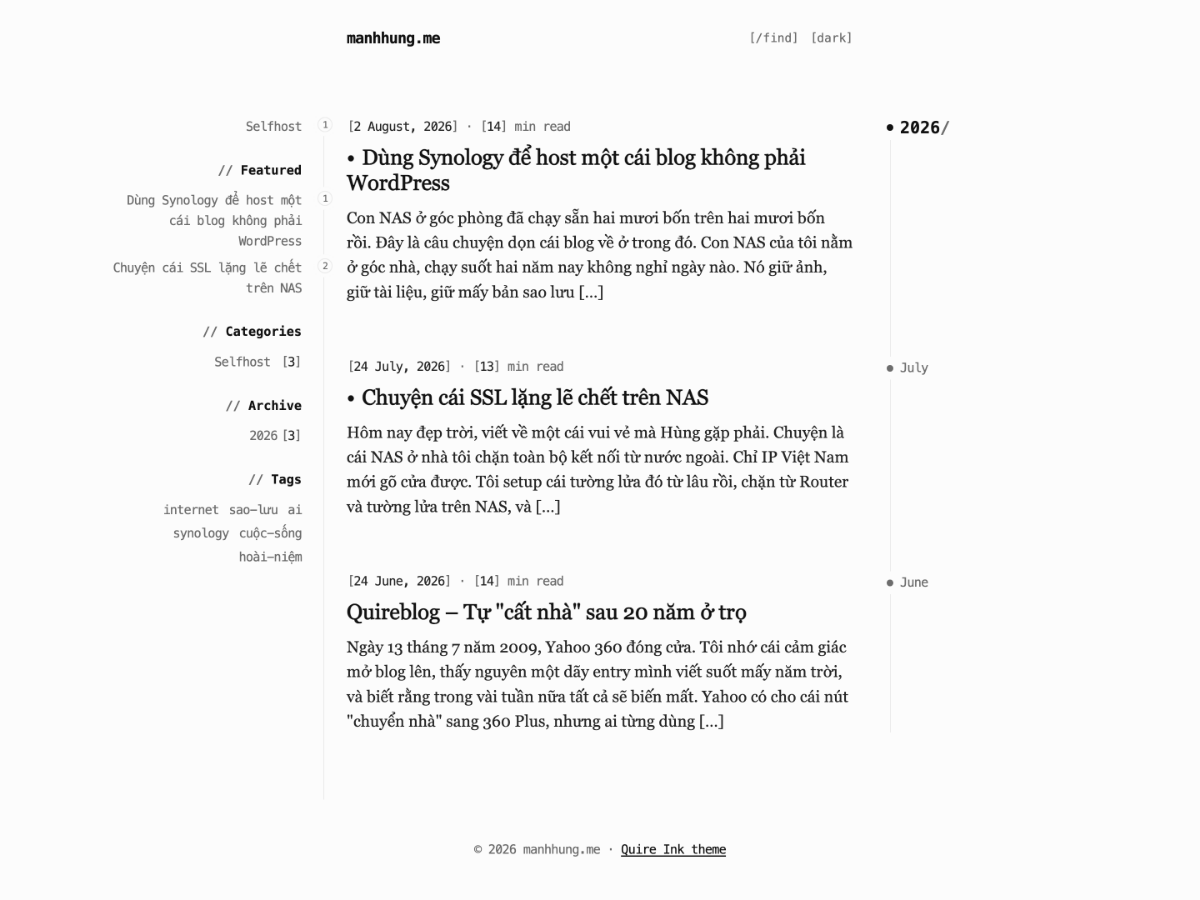
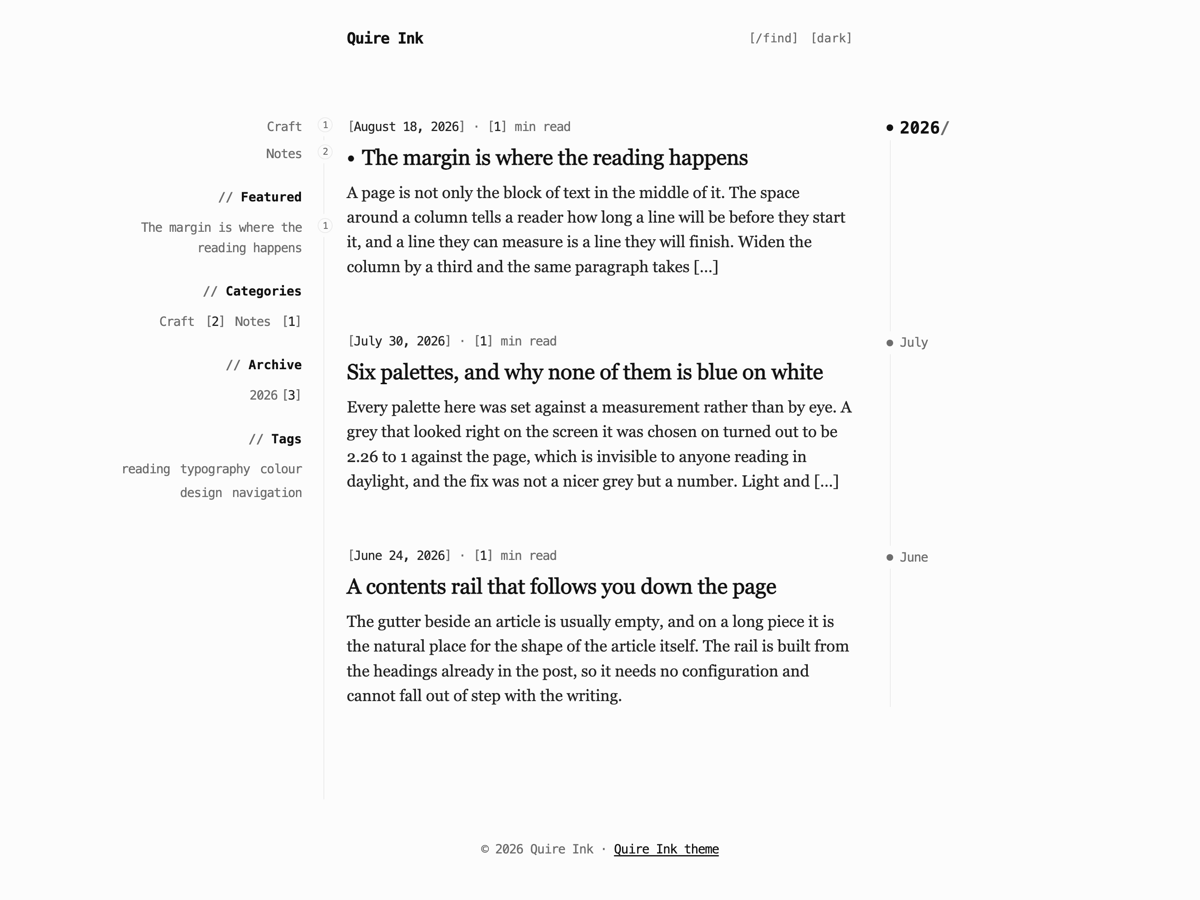
readme.txt rewritten, and the screenshot is no longer somebody's diary
The readme opened on the name of a blog engine nobody browsing a theme directory has
heard of. It opens on what a reader gets now - a column of about seventy characters
in a book face, six palettes light and dark, the article's own contents in the gutter
- and says where the look comes from afterwards, which is the order the engine's own
README uses and the right order for a stranger.

Four things it had never mentioned at all: the eight block patterns and four image
styles, the editor showing the article rather than a guess at it, what a page costs
to load (about 152 KB first visit, about 18 KB after, 4 of 21 font files fetched),
and that this is a classic theme with no Site Editor. Two it should have said plainly:
the accessibility numbers INCLUDING the one criterion that fails and why the tag is
not claimed, and that nothing is locked in - no post type, no taxonomy, no table, no
shortcode, so switching away leaves every post a post. Claims checked against the
code rather than remembered: the menu location is "Rail menu", the panels are the six
"Quire Ink -" ones, the column is --shell-w, and grep confirms no external request
and no custom schema.

The screenshot was a render of the owner's own blog: their site name, their posts,
their words. Honest, and it passed review, but a theme strangers browse should not
open on one person's diary. dev/screenshot.sh builds it from a WordPress seeded for
[…]

diff --git a/docs/release-checklist.md b/docs/release-checklist.md
@@ -61,9 +61,17 @@ the engine draws its own comment fields the same way, so this belongs upstream r
 
 ## Worth doing, not required
 
-* **The screenshot** is a render of a real blog, with its posts and its site name. It is
-  honest and it contains no third-party images, so it passes — but a theme browsed by
-  strangers reads better with demo content that is not one person's diary.
+* ~~**The screenshot**~~ is built by [`dev/screenshot.sh`](../dev/screenshot.sh) from a
+  WordPress seeded for the purpose: three posts whose words were written for the picture, two
+  categories, five tags, a menu and one sticky post, so the rail has a Featured block and the
+  headline has its bullet. It used to be a render of the owner's own blog — honest, and it
+  passed, but a theme strangers browse should not open on one person's diary, and `readme.txt`
+  now says the words in it were written for it, which is a sentence that has to stay true.
+
+  It renders at 1440 CSS pixels and scales down to exactly 1200x900. Not at 1200: by that
+  viewport the rail has already folded into the header's menu button, so a 1200-wide render
+  shows the theme without the thing the theme is for. The script exports the database first
+  and restores it from a trap, so an interrupted run does not cost a seed.
 * ~~**`rtl.css`.**~~ Generated by [`tools/rtl.ts`](../tools/rtl.ts) and pinned by
   `check:generated`, which also catches a `bridge.css` edit that forgot to mirror. Checked by
   installing Arabic on the local stack and measuring both gutters: 40px each side, no

diff --git a/docs/README.md b/docs/README.md
@@ -44,4 +44,7 @@ tools/shot.sh http://127.0.0.1:8099/<slug>/ .tmp/shots/wordpress.png
 390px request came back as a 500px page cropped to 390 — which reads as a theme that
 overflows. Phone widths are checked in the browser pane's device emulation.
 
+`dev/screenshot.sh` rebuilds `quire-ink/screenshot.png` from a WordPress seeded for the
+picture, and puts your database back afterwards.
+
 **Open the page.**

diff --git a/CLAUDE.md b/CLAUDE.md
@@ -30,6 +30,9 @@ tools/shot.sh <url> .tmp/shots/<name>.png
 390px request came back as a 500px page cropped to 390 — which reads as a theme that
 overflows. Phone widths are checked in the browser pane's device emulation.
 
+`dev/screenshot.sh` rebuilds `quire-ink/screenshot.png` from a WordPress seeded for the
+picture, and puts your database back afterwards.
+
 **Open the page.**
 
 ## Read first
